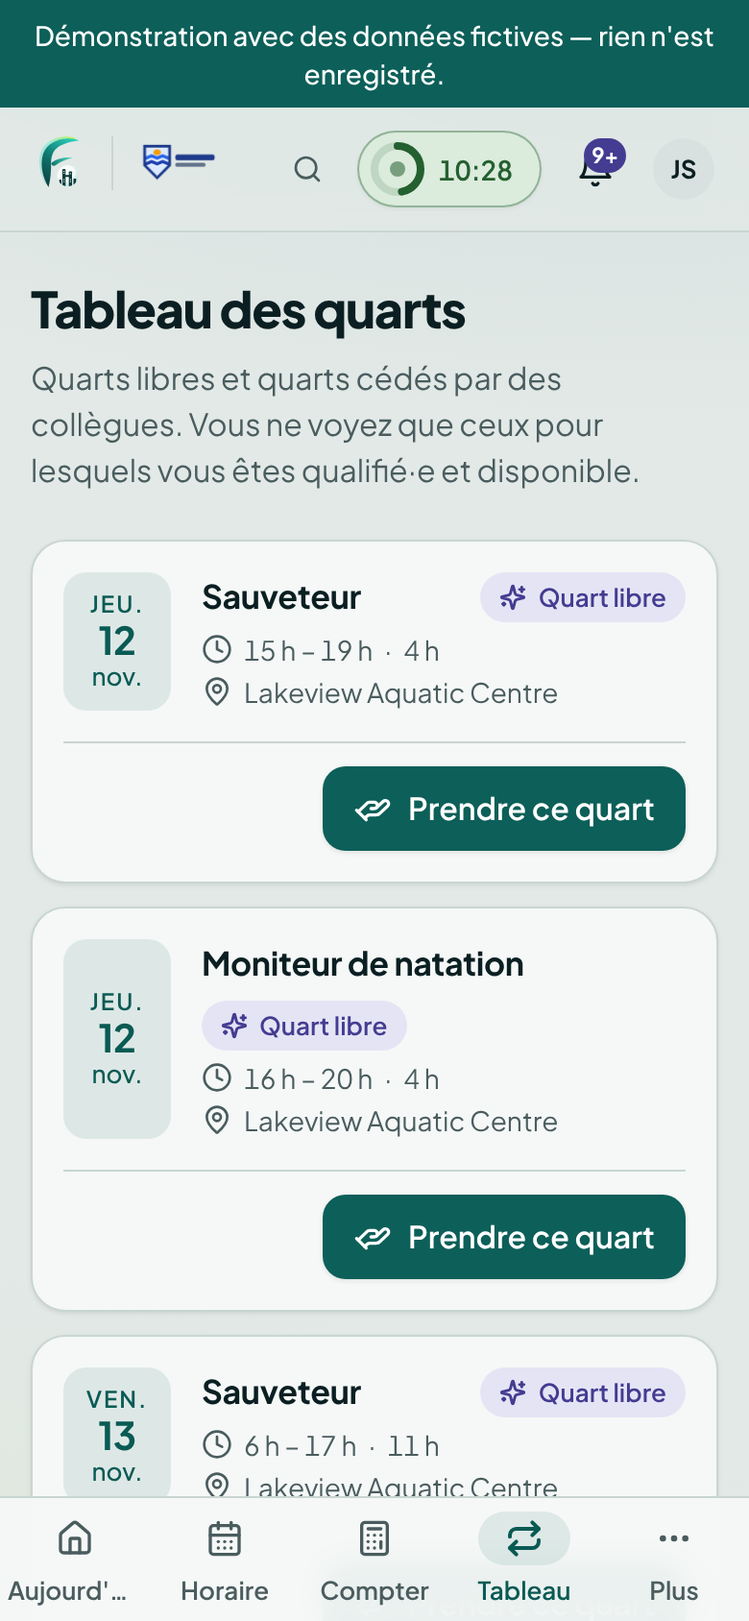
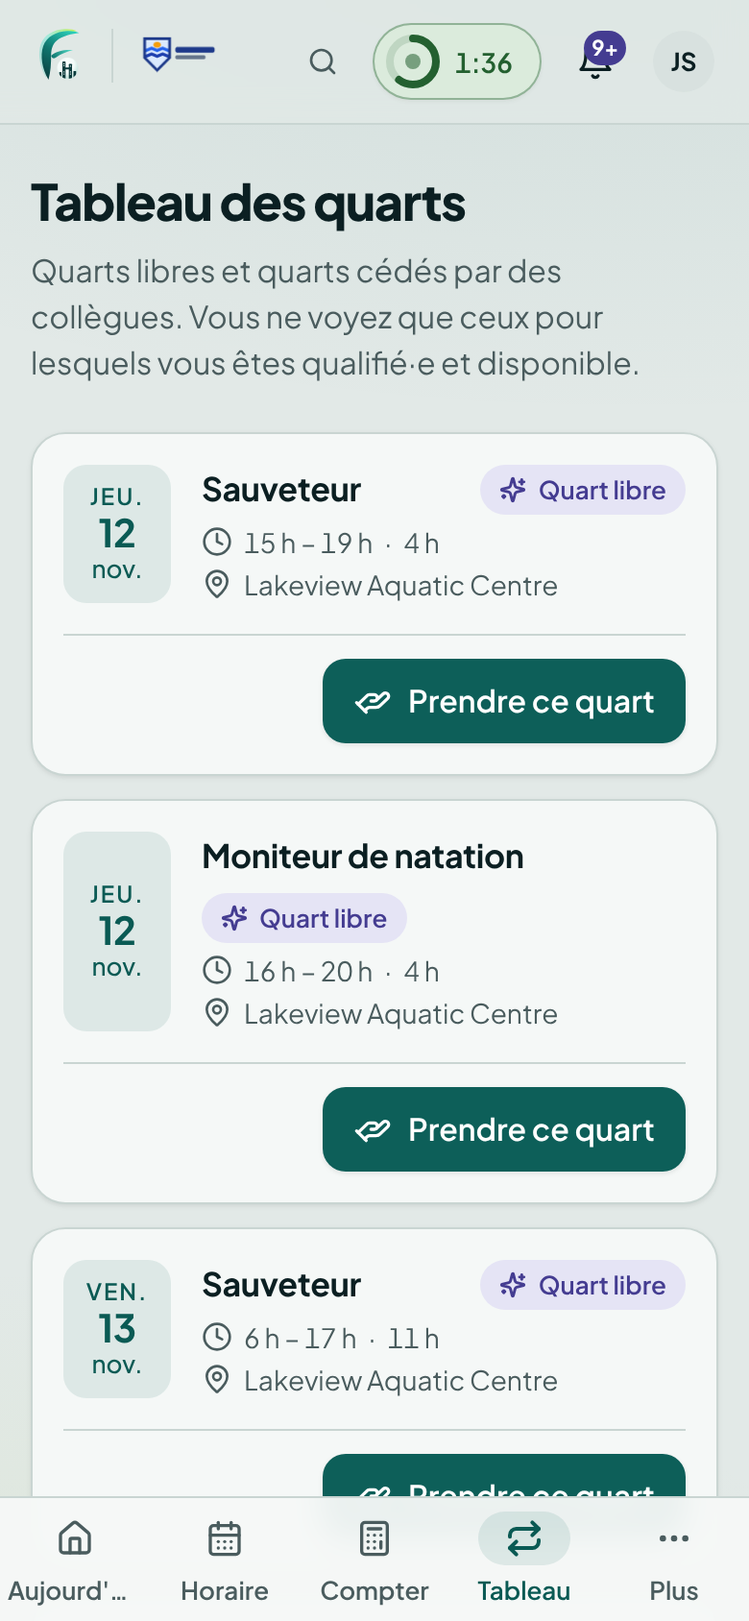
Website: installable app, notifications, live location; SEO pass
Copy (EN/FR): install from the sign-in page with no app store, phone
notifications, working-alone reminders and optional live location,
department-only schedules, the in-app privacy notice. New FAQ entries and
help articles for installing the app and working alone.

SEO: one h1 on FAQ, demo and help; home title and descriptions within
search-snippet length (long ones cut at a word); short meta descriptions
for plans and private sector; HowTo and breadcrumb structured data on help
articles; a description on the language picker page. Screenshots retaken
at a fixed afternoon without the demo banner.

Claude-Session: https://claude.ai/code/session_014qc4kKsZ1tYaayi4AYRQBC

diff --git a/apps/site/src/content/copy.ts b/apps/site/src/content/copy.ts
@@ -1,8 +1,8 @@
 /** All marketing copy, English and French. French must have every English key (checked by the type). */
 const en = {
   meta: {
-    title: 'FlexcityHeadquarters: workforce management, scheduling and time and attendance',
-    description: 'Employee scheduling, shift swaps, timeclock, payroll with direct deposit and people review for HR, for every city department, from recreation and aquatics to parks, arenas and water works. Built around provincial employment standards and collective agreements, in English and French.',
+    title: 'FlexcityHeadquarters: scheduling, timekeeping and HR for cities',
+    description: 'Scheduling, timeclock, payroll and HR for every city department, from aquatics and arenas to water works. Built for Canadian labour law, in English and French.',
   },
   nav: { product: 'Product', why: 'Why FH', privateSector: 'Private sector', plans: 'Plans', demo: 'Demo', help: 'Help', faq: 'FAQ', contact: 'Contact', tryDemo: 'Try the demo', language: 'Français', languageLabel: 'Lire en français', menu: 'Menu', close: 'Close' },
   home: {
@@ -62,9 +62,9 @@ const en = {
       lead: 'Working-alone check-ins for city crews: the operator at a pump station, the attendant closing an arena at night, the parks patrol at dusk.',
       steps: [
         { title: 'Start a session', body: 'Say where you are and how often you’ll check in, from every 15 minutes to every 2 hours.' },
-        { title: 'Check in with a tap', body: 'A timer counts down to the next check-in. One tap says you’re OK.' },
+        { title: 'Check in with a tap', body: 'A timer counts down to the next check-in, and your phone reminds you 5 minutes before. One tap says you’re OK.' },
         { title: 'A missed check-in is noticed', body: 'You and the people who monitor lone workers are alerted. Still no answer after 15 minutes? It escalates to HR by email.' },
-        { title: '“I need help” reaches everyone', body: 'One button alerts your monitors and HR at once, with the location you entered.' },
+        { title: '“I need help” reaches everyone', body: 'One button alerts your monitors and HR at once, with the location you entered, or your live position if you chose to share it for this session.' },
       ],
       placesTitle: 'Made for',
       places: ['Pump stations', 'Arenas at night', 'Parks patrols'],
@@ -78,7 +78,7 @@ const en = {
       { k: '13', v: 'provinces and territories in the rules engine' },
       { k: '2', v: 'official languages, everywhere' },
       { k: '1 slide', v: 'to clock in for your shift' },
-      { k: '0', v: 'apps to install: it runs in the browser' },
+      { k: '0', v: 'app stores: install it from the sign-in page' },
     ],
     departmentsTitle: 'One platform for every department',
     departmentsLead: 'Each department gets the screens it needs and nothing it doesn’t. Your city defines the roles, and you switch features on or off per organization.',
@@ -93,7 +93,7 @@ const en = {
     featuresTitle: 'Everything between the schedule and the paycheque',
     featuresLead: 'From the 6 a.m. opener to the HR administrator closing payroll, every person sees what they need, and nothing they don’t.',
     features: [
-      { icon: 'calendar', title: 'Schedules that follow the rules', body: 'Build the week with an assistant that checks certifications, onboarding, availability, rest periods, young-worker limits and work restrictions before anyone is booked, across all your facilities at once, with time to travel between sites.' },
+      { icon: 'calendar', title: 'Schedules that follow the rules', body: 'Build the week with an assistant that checks certifications, onboarding, availability, rest periods, young-worker limits and work restrictions before anyone is booked, across all your facilities at once, with time to travel between sites. Staff see their own shifts and their department’s published schedule, nothing more.' },
       { icon: 'repeat', title: 'A shift board with pay up front', body: 'Staff pick up shifts themselves and see an estimate of what each one pays first, overtime and holiday rates included. Overtime goes out in agreement order, with a warning before anyone is skipped.' },
       { icon: 'clock', title: 'Clock in with a slide', body: 'One gesture clocks you into the right shift, with a quick on-site check. Punches go to review, then straight into payroll.' },
       { icon: 'clipboard', title: 'Onboarding that gates the schedule', body: 'Criminal record and vulnerable sector checks, child protection training, policies to sign: switched on per position, and the ones you mark as required block scheduling until they are done.' },
@@ -151,7 +151,7 @@ const en = {
     trust: [
       { title: 'Built for Canadian hosting', body: 'Designed to be hosted in Canada, with the location confirmed in your contract. Each organization’s data is walled off by the database itself, not just by our code.' },
       { title: 'Passkeys and multi-factor sign-in', body: 'Sign in with Face ID, a fingerprint or Windows Hello. HR accounts require multi-factor sign-in by default, payroll and other sensitive changes ask you to confirm it’s you, and single sign-on with Microsoft Entra ID or SAML is built in.' },
-      { title: 'Built for procurement', body: 'Audit logs, role-based access, retention periods you set, and a records export for privacy and access-to-information requests.' },
+      { title: 'Built for procurement', body: 'Audit logs, role-based access, retention periods you set, a privacy notice in the app that tells each person what’s kept and who sees it, and a records export for privacy and access-to-information requests.' },
       { title: 'Accessible and bilingual', body: 'Designed to WCAG 2.1 AA (not yet independently audited), in English and French, on any phone or computer.' },
     ],
     ctaTitle: 'See it with your own departments in mind',
@@ -160,6 +160,7 @@ const en = {
   privateSector: {
     title: 'Scheduling and timekeeping for private employers',
     lead: 'Swim schools, aquatic and fitness clubs, camps and private recreation facilities get the same platform we build for Canadian cities, priced for a smaller team.',
+    metaDescription: 'Scheduling, timeclock and payroll export for swim schools, clubs, camps and private recreation, under your province’s employment standards.',
     whoTitle: 'Who it’s for',
     who: [
       { title: 'Swim schools and clubs', body: 'Instructors, coaches and lifeguards, lessons with offline attendance, and certifications that block a booking when they lapse.' },
@@ -174,7 +175,7 @@ const en = {
       'Onboarding per position: criminal record and vulnerable sector checks, child protection training, policies to sign (HR Compliance add-on)',
       'One-slide clock-in with an on-site check, then a payroll export',
       'Time off, availability and certifications in one staff record',
-      'English and French, on any phone, no app to install',
+      'English and French, on any phone: install it from the sign-in page, no app store',
       'People review: flags with reasons, documentation drafted from the facts, and fair-process steps for discipline (HR Compliance add-on)',
       'Working-alone check-ins with escalation for people on site by themselves',
       'Passkey sign-in, with multi-factor sign-in required for HR by default',
@@ -188,6 +189,7 @@ const en = {
     title: 'Plans and pricing',
     hero: 'One plan with everything. Two add-ons. A quote that fits your city.',
     lead: 'Municipal plans are priced per facility with unlimited staff, so seasonal hiring never changes your bill. The prices below are starting points: every facility is quoted individually, because no two cities are set up the same way.',
+    metaDescription: 'Municipal plans priced per facility with unlimited staff, so seasonal hiring never changes the bill. Every facility is quoted individually.',
     chips: ['Prices in Canadian dollars', 'Unlimited staff for municipalities', 'Trials and pilots available'],
     cta: 'Get a quote',
     ctaNote: 'We reply within one business day.',
@@ -222,8 +224,8 @@ const en = {
       { icon: 'badge', name: 'Rules and certifications', items: [{ t: 'Provincial rules engine: overtime, rest, young workers, stat holidays' }, { t: 'Certifications checked before anyone is booked' }, { t: 'Required coverage: certificates that must be on duty, with gap alerts', isNew: true }, { t: 'Compliance view at any past minute' }, { t: 'Anonymous benchmarks' }] },
       { icon: 'waves', name: 'Aquatics', items: [{ t: 'Lesson attendance on deck, even offline' }, { t: 'Bather headcounts' }, { t: 'Deck rotation with fatigue limits' }] },
       { icon: 'idcard', name: 'Programs and member services', items: [{ t: 'Lesson, club and camp campaigns, with Lifesaving Society, YMCA and CanSkate levels and their ages', isNew: true }, { t: 'Family registration with age checks and waitlists', isNew: true }, { t: 'Memberships by year or month, drop-ins and passes', isNew: true }, { t: 'Public sign-up page: families register and book spaces with no account', isNew: true }] },
-      { icon: 'heart', name: 'Safety and care', items: [{ t: 'Working-alone check-ins with escalation', isNew: true }, { t: 'Storm call-outs and winter patrol records', isNew: true }, { t: 'Pre-trip vehicle inspections, licences and hours of service for drivers', isNew: true }, { t: 'Injury reports to WSIB, WorkSafeBC or your board, with deadline reminders', isNew: true }, { t: 'Care after critical incidents' }] },
-      { icon: 'shield', name: 'Platform and sign-in', items: [{ t: 'English and Canadian French, per person' }, { t: 'Passkey sign-in' }, { t: 'Multi-factor sign-in required for HR by default', isNew: true }, { t: 'Single sign-on with Microsoft Entra ID or SAML', isNew: true }, { t: 'Careers page that shows up in job searches', isNew: true }, { t: 'Departments with their own managers; HR sees all, by tab', isNew: true }, { t: 'Runs in the browser, no app to install' }] },
+      { icon: 'heart', name: 'Safety and care', items: [{ t: 'Working-alone check-ins with escalation, reminders and optional live location', isNew: true }, { t: 'Storm call-outs and winter patrol records', isNew: true }, { t: 'Pre-trip vehicle inspections, licences and hours of service for drivers', isNew: true }, { t: 'Injury reports to WSIB, WorkSafeBC or your board, with deadline reminders', isNew: true }, { t: 'Care after critical incidents' }] },
+      { icon: 'shield', name: 'Platform and sign-in', items: [{ t: 'English and Canadian French, per person' }, { t: 'Passkey sign-in' }, { t: 'Multi-factor sign-in required for HR by default', isNew: true }, { t: 'Single sign-on with Microsoft Entra ID or SAML', isNew: true }, { t: 'Careers page that shows up in job searches', isNew: true }, { t: 'Departments with their own managers; HR sees all, by tab', isNew: true }, { t: 'Installs on phones from the sign-in page, no app store', isNew: true }, { t: 'Notifications on phones and computers', isNew: true }] },
     ],
     addOnsKicker: 'Add-ons',
     addOnsTitle: 'Add what your organization needs',
@@ -305,7 +307,9 @@ const en = {
         items: [
           { q: 'How long does setup take?', a: 'We plan for two to three weeks for a single-site private employer and four to eight for a municipality, most of it payroll code mapping and a parallel payroll run.' },
           { q: 'Can we import our staff?', a: 'Yes. Upload a spreadsheet (CSV) and you’ll see every row checked before anything is created: missing emails, unknown positions, bad dates. Invitations are optional.' },
-          { q: 'Do staff need to install an app?', a: 'No. It works in any modern browser on phones, tablets and computers, and can be added to the home screen like an app.' },
+          { q: 'Do staff need to install an app?', a: 'No app store is involved. It works in any modern browser on phones, tablets and computers, and the sign-in page offers Get the app on your phone: on Android it installs in one tap, on iPhone and iPad it shows how to add it to the home screen. It then opens full screen like any other app.' },
+          { q: 'Do people get notifications on their phone?', a: 'Yes, if they turn them on for that phone or computer: shift offers, schedule changes, approvals and working-alone reminders arrive even when the app is closed. The lock screen shows only a short heading, never details about pay, health, discipline or documents, and signing out stops them on that device. On iPhone and iPad they work in the installed app (iOS 16.4 or later).' },
+          { q: 'Does working alone track my location?', a: 'Only if you choose to share it for that session. Your position then updates while the app is open on screen, at most every 30 seconds, and only the people who monitor lone workers see it. Turning sharing off removes it at once; otherwise it’s deleted 30 days after the session. Phones don’t let web apps share location in the background, so the check-in timer and reminders remain the safety net.' },
         ],
       },
       {
@@ -404,8 +408,8 @@ type DeepString<T> = T extends string ? string : T extends number ? number : T e
 
 const fr: DeepString<Copy> = {
   meta: {
-    title: 'FlexcityHeadquarters : gestion de la main-d’œuvre, horaires et pointage',
-    description: 'Horaires, échanges de quarts, pointage, paie avec dépôt direct et suivi du personnel pour les RH, pour tous les services municipaux, des loisirs et de l’aquatique aux parcs, arénas et travaux publics. Conçu selon les normes du travail provinciales et les conventions collectives, en français et en anglais.',
+    title: 'FlexcityHeadquarters : horaires, pointage et RH municipaux',
+    description: 'Horaires, pointage, paie et RH pour tous les services municipaux, de l’aquatique aux travaux publics. Conçu pour le droit du travail canadien, bilingue.',
   },
   nav: { product: 'Produit', why: 'Pourquoi FH', privateSector: 'Secteur privé', plans: 'Forfaits', demo: 'Démo', help: 'Aide', faq: 'FAQ', contact: 'Contact', tryDemo: 'Essayer la démo', language: 'English', languageLabel: 'Read in English', menu: 'Menu', close: 'Fermer' },
   home: {
@@ -465,9 +469,9 @@ const fr: DeepString<Copy> = {
       lead: 'Des vérifications de travail seul pour les équipes municipales : l’opérateur à la station de pompage, le préposé qui ferme l’aréna le soir, la patrouille des parcs à la brunante.',
       steps: [
         { title: 'Commencez une séance', body: 'Indiquez où vous êtes et à quelle fréquence vous vous manifesterez, de toutes les 15 minutes à toutes les 2 heures.' },
-        { title: 'Confirmez d’un toucher', body: 'Une minuterie décompte jusqu’à la prochaine vérification. Un toucher confirme que tout va bien.' },
+        { title: 'Confirmez d’un toucher', body: 'Une minuterie décompte jusqu’à la prochaine vérification, et votre téléphone vous la rappelle 5 minutes avant. Un toucher confirme que tout va bien.' },
         { title: 'Une vérification manquée ne passe pas inaperçue', body: 'Vous et les personnes qui surveillent les travailleurs isolés êtes alertés. Toujours sans réponse après 15 minutes? Les RH sont avisées par courriel.' },
-        { title: '« J’ai besoin d’aide » rejoint tout le monde', body: 'Un seul bouton alerte immédiatement vos surveillants et les RH, avec l’endroit que vous avez indiqué.' },
+        { title: '« J’ai besoin d’aide » rejoint tout le monde', body: 'Un seul bouton alerte immédiatement vos surveillants et les RH, avec l’endroit que vous avez indiqué, ou votre position en direct si vous avez choisi de la partager pour cette séance.' },
       ],
       placesTitle: 'Conçu pour',
       places: ['Stations de pompage', 'Arénas le soir', 'Patrouilles des parcs'],
@@ -481,7 +485,7 @@ const fr: DeepString<Copy> = {
       { k: '13', v: 'provinces et territoires dans le moteur de règles' },
       { k: '2', v: 'langues officielles, partout' },
       { k: '1 glissement', v: 'pour pointer au début du quart' },
-      { k: '0', v: 'application à installer : tout se fait dans le navigateur' },
+      { k: '0', v: 'boutique d’applications : on l’installe depuis la page de connexion' },
     ],
     departmentsTitle: 'Une plateforme pour tous les services',
     departmentsLead: 'Chaque service a les écrans dont il a besoin, et rien de plus. Votre ville définit les rôles et active ou désactive les fonctions selon l’organisation.',
@@ -496,7 +500,7 @@ const fr: DeepString<Copy> = {
     featuresTitle: 'Tout, de l’horaire au chèque de paie',
     featuresLead: 'Du sauveteur qui ouvre à 6 h à l’administratrice RH qui ferme la paie, chacun voit ce dont il a besoin, et rien de plus.',
     features: [
-      { icon: 'calendar', title: 'Des horaires conformes', body: 'Préparez la semaine avec un assistant qui vérifie les certifications, l’intégration, les disponibilités, les périodes de repos, les limites pour les jeunes et les restrictions de travail avant toute affectation, pour toutes vos installations à la fois, avec le temps de se déplacer entre les sites.' },
+      { icon: 'calendar', title: 'Des horaires conformes', body: 'Préparez la semaine avec un assistant qui vérifie les certifications, l’intégration, les disponibilités, les périodes de repos, les limites pour les jeunes et les restrictions de travail avant toute affectation, pour toutes vos installations à la fois, avec le temps de se déplacer entre les sites. Le personnel voit ses propres quarts et l’horaire publié de son service, rien de plus.' },
       { icon: 'repeat', title: 'Un babillard qui affiche la paie', body: 'Le personnel prend des quarts lui-même et voit d’abord une estimation de ce que chacun rapporte, heures supplémentaires et jours fériés compris. Les heures supplémentaires suivent l’ordre de la convention, avec un avertissement avant de sauter quelqu’un.' },
       { icon: 'clock', title: 'Pointer d’un glissement', body: 'Un seul geste vous pointe au bon quart, avec une vérification rapide sur place. Les pointages passent en revue, puis directement dans la paie.' },
       { icon: 'clipboard', title: 'Une intégration qui conditionne l’horaire', body: 'Vérifications du casier judiciaire et du secteur vulnérable, formation sur la protection de l’enfance, politiques à signer : activées par poste, et celles que vous rendez obligatoires bloquent l’horaire tant qu’elles ne sont pas faites.' },
@@ -554,7 +558,7 @@ const fr: DeepString<Copy> = {
     trust: [
       { title: 'Conçu pour un hébergement canadien', body: 'Conçu pour être hébergé au Canada, lieu confirmé dans votre contrat. Les données de chaque organisation sont isolées par la base de données elle-même, pas seulement par notre code.' },
       { title: 'Clés d’accès et authentification multifacteur', body: 'Connectez-vous avec Face ID, une empreinte ou Windows Hello. Les comptes RH exigent par défaut l’authentification multifacteur, la paie et les autres changements sensibles demandent de confirmer votre identité, et l’authentification unique avec Microsoft Entra ID ou SAML est intégrée.' },
-      { title: 'Conçu pour l’approvisionnement', body: 'Journaux d’audit, accès selon le rôle, durées de conservation que vous fixez, et exportation des dossiers pour les demandes d’accès à l’information.' },
+      { title: 'Conçu pour l’approvisionnement', body: 'Journaux d’audit, accès selon le rôle, durées de conservation que vous fixez, un avis de confidentialité dans l’application qui indique à chacun ce qui est conservé et qui le voit, et exportation des dossiers pour les demandes d’accès à l’information.' },
       { title: 'Accessible et bilingue', body: 'Conçu selon les WCAG 2.1 AA (pas encore vérifié de façon indépendante), en français et en anglais, sur tout téléphone ou ordinateur.' },
     ],
     ctaTitle: 'Voyez-le en pensant à vos services',
@@ -563,6 +567,7 @@ const fr: DeepString<Copy> = {
   privateSector: {
     title: 'Horaires et pointage pour les employeurs privés',
     lead: 'Écoles de natation, clubs aquatiques et de conditionnement physique, camps et installations récréatives privées profitent de la même plateforme que celle conçue pour les villes canadiennes, à un prix adapté à une plus petite équipe.',
+    metaDescription: 'Horaires, pointage et exportation de la paie pour écoles de natation, clubs, camps et loisirs privés, selon les normes de votre province.',
     whoTitle: 'Pour qui',
     who: [
       { title: 'Écoles et clubs de natation', body: 'Moniteurs, entraîneurs et sauveteurs, cours avec présences hors ligne, et certifications qui bloquent l’affectation à leur échéance.' },
@@ -577,7 +582,7 @@ const fr: DeepString<Copy> = {
       'Intégration par poste : vérifications du casier judiciaire et du secteur vulnérable, protection de l’enfance, politiques à signer (module Conformité RH)',
       'Pointage d’un glissement avec vérification sur place, puis exportation de la paie',
       'Congés, disponibilités et certifications dans un seul dossier',
-      'Français et anglais, sur tout téléphone, sans application à installer',
+      'Français et anglais, sur tout téléphone : installation depuis la page de connexion, sans boutique d’applications',
       'Suivi du personnel : signalements motivés, documentation rédigée à partir des faits et étapes d’équité pour la discipline (module Conformité RH)',
       'Vérifications de travail seul avec escalade pour les personnes seules sur place',
       'Connexion par clé d’accès, et authentification multifacteur exigée par défaut pour les RH',
@@ -591,6 +596,7 @@ const fr: DeepString<Copy> = {
     title: 'Forfaits et tarifs',
     hero: 'Un forfait qui comprend tout. Deux modules. Une soumission à la mesure de votre ville.',
     lead: 'Les forfaits municipaux sont établis par installation, personnel illimité : l’embauche saisonnière ne change jamais la facture. Les prix ci-dessous sont des prix de départ : chaque installation fait l’objet d’une soumission, car aucune ville n’est organisée comme une autre.',
+    metaDescription: 'Forfaits municipaux par installation, personnel illimité : l’embauche saisonnière ne change pas la facture. Chaque installation est soumissionnée.',
     chips: ['Prix en dollars canadiens', 'Personnel illimité pour les municipalités', 'Essais et projets pilotes offerts'],
     cta: 'Obtenir une soumission',
     ctaNote: 'Nous répondons en un jour ouvrable.',
@@ -625,8 +631,8 @@ const fr: DeepString<Copy> = {
       { icon: 'badge', name: 'Règles et certifications', items: [{ t: 'Moteur de règles provinciales : heures supplémentaires, repos, jeunes travailleurs, jours fériés' }, { t: 'Certifications vérifiées avant toute affectation' }, { t: 'Couverture requise : certificats qui doivent être en service, avec alertes', isNew: true }, { t: 'Vue de la conformité à toute minute passée' }, { t: 'Comparaisons anonymes' }] },
       { icon: 'waves', name: 'Aquatique', items: [{ t: 'Présences aux cours au bord de la piscine, même hors ligne' }, { t: 'Dénombrement des baigneurs' }, { t: 'Rotation des sauveteurs avec limites de fatigue' }] },
       { icon: 'idcard', name: 'Programmes et services aux membres', items: [{ t: 'Campagnes de cours, de clubs et de camps, avec les niveaux et âges de la Société de sauvetage, du YMCA et de Patinage Plus', isNew: true }, { t: 'Inscription des familles avec vérification de l’âge et liste d’attente', isNew: true }, { t: 'Abonnements à l’année ou au mois, entrées et cartes', isNew: true }, { t: 'Page publique d’inscription : les familles s’inscrivent et réservent sans compte', isNew: true }] },
-      { icon: 'heart', name: 'Sécurité et soutien', items: [{ t: 'Vérifications de travail seul avec escalade', isNew: true }, { t: 'Rappels en cas de tempête et registres de patrouille hivernale', isNew: true }, { t: 'Inspections avant départ, permis et heures de service des conducteurs', isNew: true }, { t: 'Déclarations de lésion à la CNESST, à la WSIB ou à votre organisme, avec rappels d’échéance', isNew: true }, { t: 'Soutien après un incident critique' }] },
-      { icon: 'shield', name: 'Plateforme et connexion', items: [{ t: 'Français canadien et anglais, selon la personne' }, { t: 'Connexion par clé d’accès' }, { t: 'Authentification multifacteur exigée par défaut pour les RH', isNew: true }, { t: 'Authentification unique avec Microsoft Entra ID ou SAML', isNew: true }, { t: 'Page carrières visible dans les recherches d’emploi', isNew: true }, { t: 'Des services avec leurs propres gestionnaires; les RH voient tout, par onglet', isNew: true }, { t: 'Dans le navigateur, sans application à installer' }] },
+      { icon: 'heart', name: 'Sécurité et soutien', items: [{ t: 'Vérifications de travail seul avec escalade, rappels et position en direct facultative', isNew: true }, { t: 'Rappels en cas de tempête et registres de patrouille hivernale', isNew: true }, { t: 'Inspections avant départ, permis et heures de service des conducteurs', isNew: true }, { t: 'Déclarations de lésion à la CNESST, à la WSIB ou à votre organisme, avec rappels d’échéance', isNew: true }, { t: 'Soutien après un incident critique' }] },
+      { icon: 'shield', name: 'Plateforme et connexion', items: [{ t: 'Français canadien et anglais, selon la personne' }, { t: 'Connexion par clé d’accès' }, { t: 'Authentification multifacteur exigée par défaut pour les RH', isNew: true }, { t: 'Authentification unique avec Microsoft Entra ID ou SAML', isNew: true }, { t: 'Page carrières visible dans les recherches d’emploi', isNew: true }, { t: 'Des services avec leurs propres gestionnaires; les RH voient tout, par onglet', isNew: true }, { t: 'S’installe sur les téléphones depuis la page de connexion, sans boutique d’applications', isNew: true }, { t: 'Notifications sur téléphones et ordinateurs', isNew: true }] },
     ],
     addOnsKicker: 'Modules',
     addOnsTitle: 'Ajoutez ce dont votre organisation a besoin',
@@ -708,7 +714,9 @@ const fr: DeepString<Copy> = {
         items: [
           { q: 'Combien de temps prend la mise en route?', a: 'Nous prévoyons de deux à trois semaines pour un employeur privé à un seul site et de quatre à huit pour une municipalité, surtout pour la correspondance des codes de paie et une paie en parallèle.' },
           { q: 'Pouvons-nous importer notre personnel?', a: 'Oui. Téléversez un chiffrier (CSV) : chaque ligne est vérifiée avant toute création (courriels manquants, postes inconnus, dates invalides). Les invitations sont facultatives.' },
-          { q: 'Le personnel doit-il installer une application?', a: 'Non. Tout fonctionne dans un navigateur récent sur téléphone, tablette et ordinateur, et peut être ajouté à l’écran d’accueil comme une application.' },
+          { q: 'Le personnel doit-il installer une application?', a: 'Aucune boutique d’applications. Tout fonctionne dans un navigateur récent sur téléphone, tablette et ordinateur, et la page de connexion offre Installer l’application sur votre téléphone : sur Android, l’installation se fait d’un toucher; sur iPhone et iPad, on vous montre comment l’ajouter à l’écran d’accueil. Elle s’ouvre ensuite en plein écran comme toute autre application.' },
+          { q: 'Reçoit-on des notifications sur son téléphone?', a: 'Oui, si on les active sur ce téléphone ou cet ordinateur : offres de quarts, changements d’horaire, approbations et rappels de travail seul arrivent même quand l’application est fermée. L’écran verrouillé n’affiche qu’un court titre, jamais de détails sur la paie, la santé, la discipline ou les documents, et la déconnexion les arrête sur cet appareil. Sur iPhone et iPad, elles fonctionnent dans l’application installée (iOS 16.4 ou plus récent).' },
+          { q: 'Le travail seul suit-il ma position?', a: 'Seulement si vous choisissez de la partager pour cette séance. Votre position est alors mise à jour pendant que l’application est ouverte à l’écran, au plus toutes les 30 secondes, et seules les personnes qui surveillent le travail seul la voient. Désactiver le partage la supprime aussitôt; sinon, elle est effacée 30 jours après la séance. Les téléphones ne permettent pas aux applications Web de partager la position en arrière-plan : la minuterie et les rappels restent le filet de sécurité.' },
         ],
       },
       {

diff --git a/apps/site/src/content/help.ts b/apps/site/src/content/help.ts
@@ -12,14 +12,46 @@ export const ARTICLES: Article[] = [
     en: {
       title: 'Your first sign-in',
       summary: 'Set your password from the invitation and add a passkey.',
-      steps: ['Open the invitation email from your organization and choose a password (the link works for 7 days).', 'Sign in at your organization’s web address (it’s in the invitation email).', 'When asked, set up a passkey so next time you can sign in with Face ID, your fingerprint or Windows Hello.', 'Add the site to your home screen for one-tap access.'],
+      steps: ['Open the invitation email from your organization and choose a password (the link works for 7 days).', 'Sign in at your organization’s web address (it’s in the invitation email).', 'When asked, set up a passkey so next time you can sign in with Face ID, your fingerprint or Windows Hello.', 'On your phone, tap Get the app on your phone on the sign-in page to add it to your home screen (no app store).'],
       tip: 'Invitation expired? Ask your supervisor to resend it from Staff.',
     },
     fr: {
       title: 'Votre première connexion',
       summary: 'Choisissez votre mot de passe depuis l’invitation et ajoutez une clé d’accès.',
-      steps: ['Ouvrez le courriel d’invitation de votre organisation et choisissez un mot de passe (le lien est valide 7 jours).', 'Connectez-vous à l’adresse Web de votre organisation (elle figure dans le courriel d’invitation).', 'Si on vous le propose, configurez une clé d’accès pour vous connecter avec Face ID, votre empreinte ou Windows Hello.', 'Ajoutez le site à votre écran d’accueil pour y accéder d’un geste.'],
+      steps: ['Ouvrez le courriel d’invitation de votre organisation et choisissez un mot de passe (le lien est valide 7 jours).', 'Connectez-vous à l’adresse Web de votre organisation (elle figure dans le courriel d’invitation).', 'Si on vous le propose, configurez une clé d’accès pour vous connecter avec Face ID, votre empreinte ou Windows Hello.', 'Sur votre téléphone, touchez Installer l’application sur votre téléphone à la page de connexion pour l’ajouter à votre écran d’accueil (sans boutique d’applications).'],
       tip: 'Invitation expirée? Demandez à votre superviseur de la renvoyer depuis Personnel.',
+    },
+  },
+  {
+    slug: 'install-the-app',
+    audience: 'staff',
+    en: {
+      title: 'Installing the app and turning on notifications',
+      summary: 'Put FlexcityHeadquarters on your phone’s home screen without an app store, then get shift offers and reminders as notifications.',
+      steps: ['Open your organization’s sign-in page on your phone and tap Get the app on your phone.', 'Android: tap Install in the box that appears. iPhone or iPad: in Safari, tap Share, then Add to Home Screen, then Add.', 'Open the app from your home screen and sign in. It opens full screen like any other app.', 'Go to your profile and, under Notifications on this device, tap Turn on notifications, then Allow.', 'To stop them on that device, turn them off there or sign out.'],
+      tip: 'On iPhone and iPad, notifications only work in the installed app (iOS 16.4 or later). Your lock screen shows a short heading only, never pay, health or discipline details.',
+    },
+    fr: {
+      title: 'Installer l’application et activer les notifications',
+      summary: 'Placez FlexcityHeadquarters sur l’écran d’accueil de votre téléphone sans boutique d’applications, puis recevez offres de quarts et rappels en notifications.',
+      steps: ['Ouvrez la page de connexion de votre organisation sur votre téléphone et touchez Installer l’application sur votre téléphone.', 'Android : touchez Installer dans la fenêtre qui s’affiche. iPhone ou iPad : dans Safari, touchez Partager, puis Sur l’écran d’accueil, puis Ajouter.', 'Ouvrez l’application depuis votre écran d’accueil et connectez-vous. Elle s’ouvre en plein écran comme toute autre application.', 'Allez à votre profil et, sous Notifications sur cet appareil, touchez Activer les notifications, puis Autoriser.', 'Pour les arrêter sur cet appareil, désactivez-les au même endroit ou déconnectez-vous.'],
+      tip: 'Sur iPhone et iPad, les notifications ne fonctionnent que dans l’application installée (iOS 16.4 ou plus récent). L’écran verrouillé n’affiche qu’un court titre, jamais de détails sur la paie, la santé ou la discipline.',
+    },
+  },
+  {
+    slug: 'working-alone',
+    audience: 'staff',
+    en: {
+      title: 'Working alone: check-ins, help and location',
+      summary: 'Start a working-alone session, check in on a timer, ask for help, and choose whether to share your location with your monitors.',
+      steps: ['Open Working alone from the menu, say where you are and how often you’ll check in.', 'Leave Share my location on if you want your monitors to see where you are during this session, or turn it off.', 'Your phone reminds you 5 minutes before each check-in. Tap I’m OK to reset the timer.', 'In trouble? Tap I need help: your monitors and HR are alerted at once. In an emergency, call 911 first.', 'Tap I’m done working alone at the end. Sharing stops with the session.'],
+      tip: 'Phones stop sharing a web app’s location when it’s in the background or the screen is locked. Turn on Keep the screen on if your monitors need your live position; a missed check-in alerts them either way.',
+    },
+    fr: {
+      title: 'Travail seul : vérifications, aide et position',
+      summary: 'Commencez une séance de travail seul, faites vos vérifications, demandez de l’aide et choisissez de partager ou non votre position.',
+      steps: ['Ouvrez Travail seul dans le menu, indiquez où vous êtes et à quelle fréquence vous ferez vos vérifications.', 'Laissez Partager ma position activé si vous voulez que vos superviseurs voient où vous êtes pendant cette séance, ou désactivez-le.', 'Votre téléphone vous rappelle chaque vérification 5 minutes avant. Touchez Tout va bien pour relancer la minuterie.', 'En difficulté? Touchez J’ai besoin d’aide : vos superviseurs et les RH sont alertés aussitôt. En cas d’urgence, composez d’abord le 911.', 'À la fin, touchez J’ai fini de travailler seul. Le partage s’arrête avec la séance.'],
+      tip: 'Les téléphones cessent de partager la position d’une application Web en arrière-plan ou écran verrouillé. Activez Garder l’écran allumé si vos superviseurs ont besoin de votre position en direct; une vérification manquée les alerte de toute façon.',
     },
   },
   {

diff --git a/apps/site/src/app/[lang]/help/[slug]/page.tsx b/apps/site/src/app/[lang]/help/[slug]/page.tsx
@@ -1,4 +1,4 @@
-import { pageMeta } from '@/lib/seo';
+import { SITE_URL, pageMeta } from '@/lib/seo';
 import { ArrowLeft, Lightbulb } from 'lucide-react';
 import Link from 'next/link';
 import { notFound } from 'next/navigation';
@@ -20,8 +20,23 @@ export default async function Article(props: { params: Promise<{ lang: Lang; slu
   if (!a) notFound();
   const b = articleIn(a, params.lang);
   const c = copy(params.lang);
+  const url = `${SITE_URL}/${params.lang}/help/${a.slug}/`;
+  // Structured data: the steps as a how-to, and where the page sits in the site.
+  const ld = [
+    { '@context': 'https://schema.org', '@type': 'HowTo', name: b.title, description: b.summary, inLanguage: params.lang === 'fr' ? 'fr-CA' : 'en-CA', url, step: b.steps.map((text, i) => ({ '@type': 'HowToStep', position: i + 1, text })) },
+    {
+      '@context': 'https://schema.org',
+      '@type': 'BreadcrumbList',
+      itemListElement: [
+        { '@type': 'ListItem', position: 1, name: 'FlexcityHeadquarters', item: `${SITE_URL}/${params.lang}/` },
+        { '@type': 'ListItem', position: 2, name: c.help.title, item: `${SITE_URL}/${params.lang}/help/` },
+        { '@type': 'ListItem', position: 3, name: b.title, item: url },
+      ],
+    },
+  ];
   return (
     <Section>
+      <script type="application/ld+json" dangerouslySetInnerHTML={{ __html: JSON.stringify(ld).replace(/</g, '\\u003c') }} />
       <div className="mx-auto max-w-2xl">
         <Link href={`/${params.lang}/help/`} className="mb-6 inline-flex items-center gap-1.5 text-small font-semibold text-brand-text hover:underline">
           <ArrowLeft className="h-4 w-4" aria-hidden="true" />

diff --git a/apps/site/src/components/Section.tsx b/apps/site/src/components/Section.tsx
@@ -21,7 +21,7 @@ export function Kicker({ n, children, dark = false }: { n?: string; children: Re
   );
 }
 
-export function SectionHead({ eyebrow, n, title, lead, center = false, dark = false }: { eyebrow?: string; n?: string; title: string; lead?: string; center?: boolean; dark?: boolean }) {
+export function SectionHead({ eyebrow, n, title, lead, center = false, dark = false, as: Heading = 'h2' }: { eyebrow?: string; n?: string; title: string; lead?: string; center?: boolean; dark?: boolean; as?: 'h1' | 'h2' }) {
   return (
     <div className={cn('mb-10 max-w-4xl md:mb-14', center && 'mx-auto text-center')}>
       {eyebrow ? (
@@ -29,7 +29,7 @@ export function SectionHead({ eyebrow, n, title, lead, center = false, dark = fa
           <Kicker n={n} dark={dark}>{eyebrow}</Kicker>
         </div>
       ) : null}
-      <h2 className="text-title [text-wrap:balance]">{title}</h2>
+      <Heading className="text-title [text-wrap:balance]">{title}</Heading>
       {lead ? <p className={cn('mt-4 max-w-2xl text-[1.0625rem] leading-7', center && 'mx-auto', dark ? 'text-white/80' : 'text-muted')}>{lead}</p> : null}
     </div>
   );

diff --git a/apps/site/src/lib/seo.ts b/apps/site/src/lib/seo.ts
@@ -17,7 +17,9 @@ const LOCALE = { en: 'en_CA', fr: 'fr_CA' } as const;
 export const PAGES = ['', 'private-sector/', 'plans/', 'demo/', 'faq/', 'help/', 'contact/', 'privacy/', 'accessibility/', 'terms/'];
 
 /** Title, description, canonical, hreflang alternates and social cards for one page. */
-export function pageMeta(lang: Lang, path: string, title: string | undefined, description: string): Metadata {
+export function pageMeta(lang: Lang, path: string, title: string | undefined, text: string): Metadata {
+  // Search results show about 160 characters: cut at a word, not mid-word.
+  const description = text.length > 160 ? `${text.slice(0, text.lastIndexOf(' ', 157)).replace(/[,;:.]$/, '')}…` : text;
   const url = `/${lang}/${path}`;
   return {
     ...(title ? { title } : {}),

diff --git a/apps/site/src/app/[lang]/demo/page.tsx b/apps/site/src/app/[lang]/demo/page.tsx
@@ -18,7 +18,7 @@ export default async function Demo(props: { params: Promise<{ lang: Lang }> }) {
   return (
     <>
       <Section>
-        <SectionHead title={c.title} lead={c.lead} />
+        <SectionHead as="h1" title={c.title} lead={c.lead} />
         <div className="grid gap-4 sm:grid-cols-2 lg:grid-cols-3">
           {c.roles.map((r, i) => (
             <a key={r.id} href={demoLink(r.id, params.lang)} {...reveal(i)} className="lift group flex flex-col rounded-2xl border border-line bg-panel p-6 shadow-card">

diff --git a/apps/site/src/app/[lang]/faq/page.tsx b/apps/site/src/app/[lang]/faq/page.tsx
@@ -21,7 +21,7 @@ export default async function Faq(props: { params: Promise<{ lang: Lang }> }) {
   return (
     <Section>
       <script type="application/ld+json" dangerouslySetInnerHTML={{ __html: JSON.stringify(ld) }} />
-      <SectionHead title={c.title} />
+      <SectionHead as="h1" title={c.title} />
       <div className="grid gap-10 lg:grid-cols-[14rem_1fr]">
         <nav aria-label={c.title} className="hidden lg:block">
           <ul className="sticky top-24 grid gap-1 text-small">

diff --git a/apps/site/src/app/[lang]/plans/page.tsx b/apps/site/src/app/[lang]/plans/page.tsx
@@ -10,7 +10,7 @@ import { pageMeta } from '@/lib/seo';
 export async function generateMetadata(props: { params: Promise<{ lang: Lang }> }) {
   const params = await props.params;
   const c = copy(params.lang).plans;
-  return pageMeta(params.lang, 'plans/', c.title, c.lead);
+  return pageMeta(params.lang, 'plans/', c.title, c.metaDescription);
 }
 
 export default async function Plans(props: { params: Promise<{ lang: Lang }> }) {

diff --git a/apps/site/src/app/[lang]/private-sector/page.tsx b/apps/site/src/app/[lang]/private-sector/page.tsx
@@ -10,7 +10,7 @@ import { demoLink } from '@/lib/site';
 export async function generateMetadata(props: { params: Promise<{ lang: Lang }> }) {
   const params = await props.params;
   const c = copy(params.lang).privateSector;
-  return pageMeta(params.lang, 'private-sector/', c.title, c.lead);
+  return pageMeta(params.lang, 'private-sector/', c.title, c.metaDescription);
 }
 
 const ICONS = ['waves', 'users', 'trees', 'wrench'];

diff --git a/apps/site/src/app/(root)/page.tsx b/apps/site/src/app/(root)/page.tsx
@@ -4,6 +4,7 @@ import { SITE_URL } from '@/lib/seo';
 export const metadata: Metadata = {
   metadataBase: new URL(SITE_URL),
   title: 'FlexcityHeadquarters',
+  description: 'Scheduling, timeclock, payroll and HR for Canadian cities · Horaires, pointage, paie et RH pour les villes canadiennes.',
   alternates: { canonical: '/en/', languages: { 'en-CA': '/en/', 'fr-CA': '/fr/', 'x-default': '/en/' } },
 };
 

diff --git a/apps/site/src/app/[lang]/help/page.tsx b/apps/site/src/app/[lang]/help/page.tsx
@@ -14,7 +14,7 @@ export default async function Help(props: { params: Promise<{ lang: Lang }> }) {
   const c = copy(params.lang).help;
   return (
     <Section>
-      <SectionHead title={c.title} lead={c.lead} />
+      <SectionHead as="h1" title={c.title} lead={c.lead} />
       <HelpIndex lang={params.lang} />
     </Section>
   );
